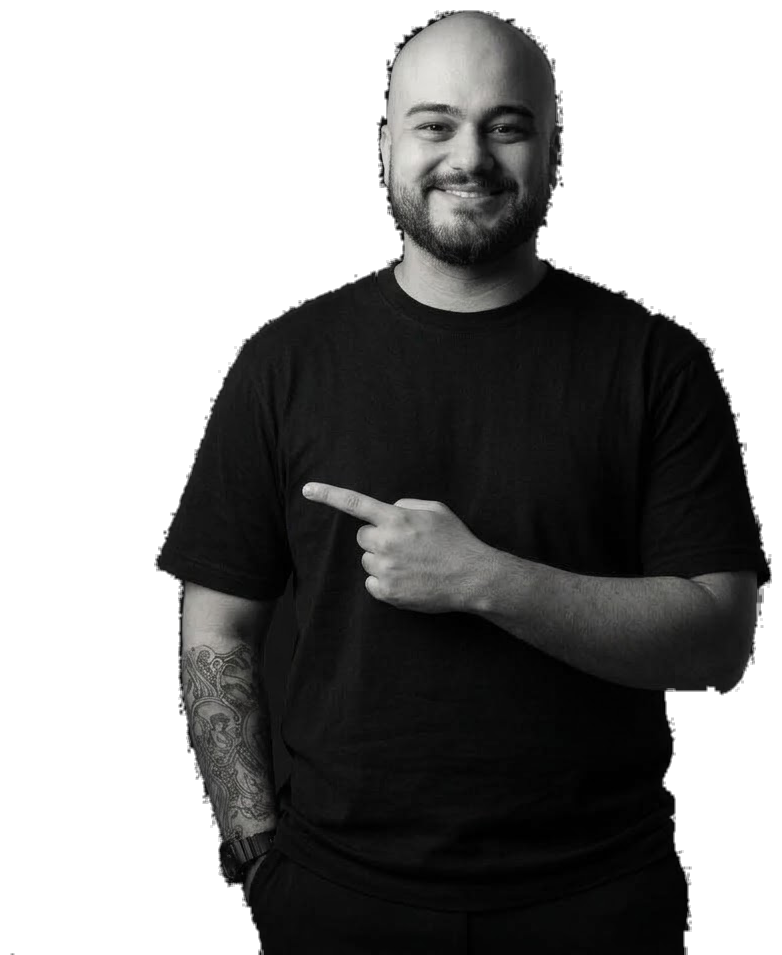
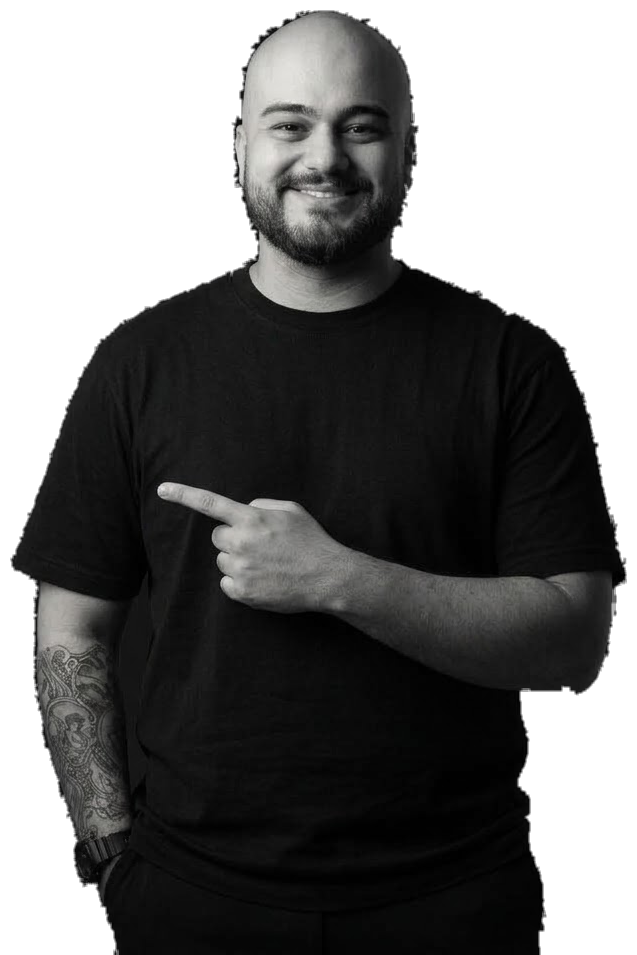
Discard stray specks so the cutout crops to the figure
The flood fill leaves behind any pixel it cannot reach — 218 specks here,
552 pixels in total, scattered where the backdrop drifted outside the
value window it matches on. Cropping to the alpha bounding box then
stretched the frame out to the furthest speck, padding roughly 170px of
emptiness on one side and pushing the figure off centre: the box was
symmetric, but the mass sat 70px right of it.

Keeping only the largest connected region and cropping to that puts the
mass within 2px of the frame centre. The crop is also 145px narrower,
which is why the figure now reads larger in the same panel.

Measured on the rendered page: horizontal offset -2.7px, vertical gaps
89 above and 85 below.

Changed region(s): [[0.0, 0.0, 0.9545, 1.0], [0.8053, 0.5162, 1.0, 1.0]]

diff --git a/src/app/(site)/about/page.tsx b/src/app/(site)/about/page.tsx
@@ -90,7 +90,7 @@ export default async function AboutPage() {
                 <Image
                   src={portraitUrl}
                   alt={profile?.name ?? ""}
-                  width={782}
+                  width={637}
                   height={955}
                   sizes="192px"
                   priority
